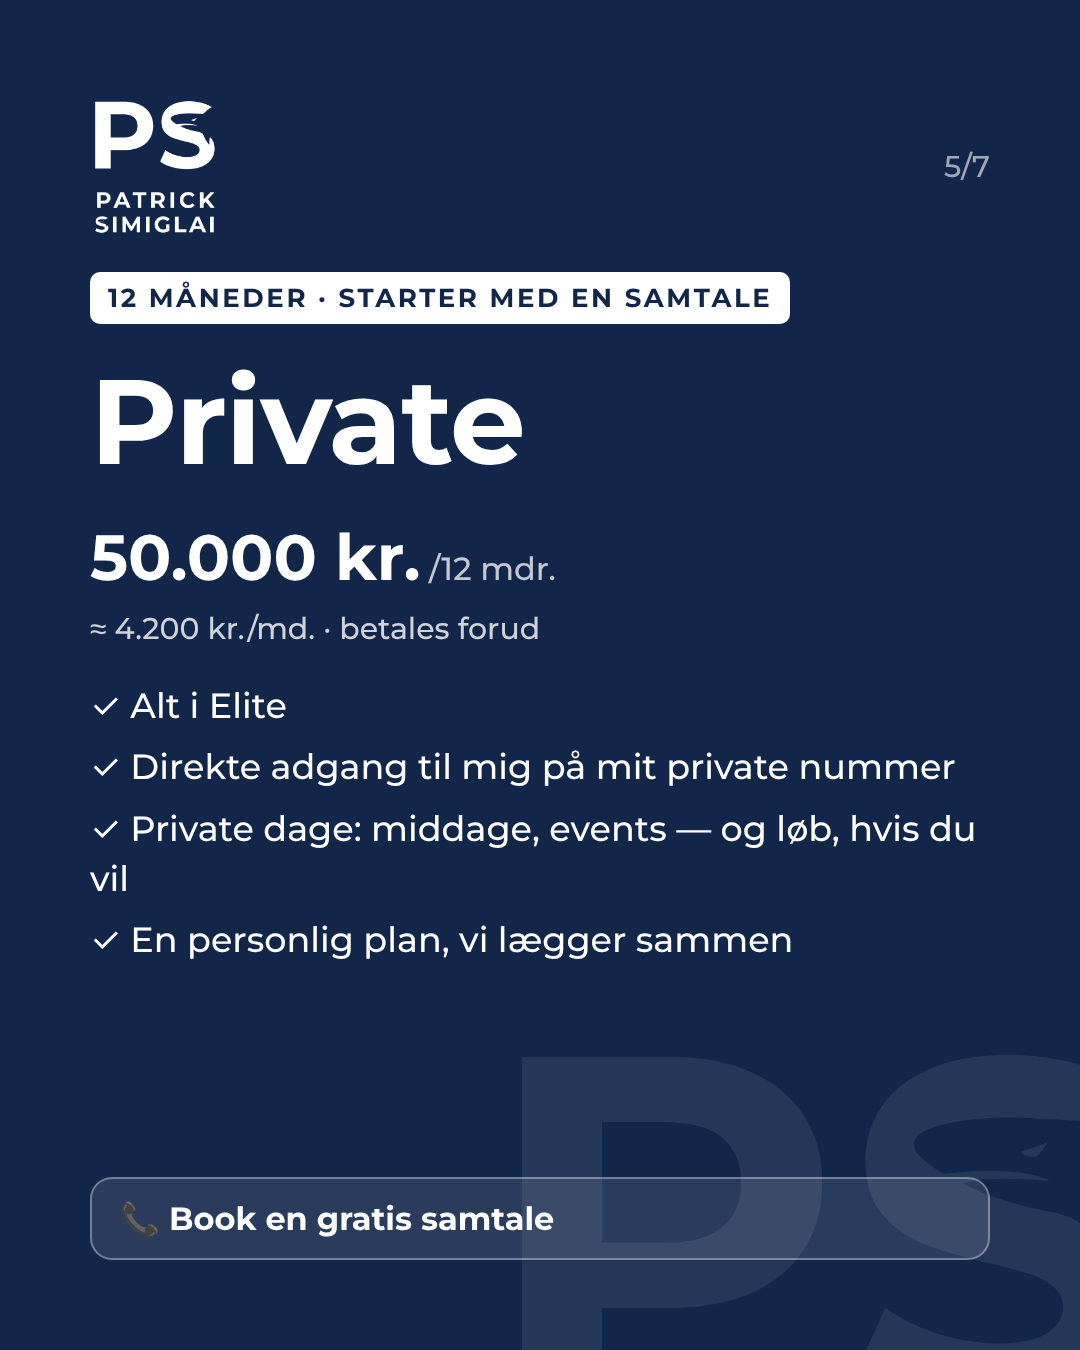
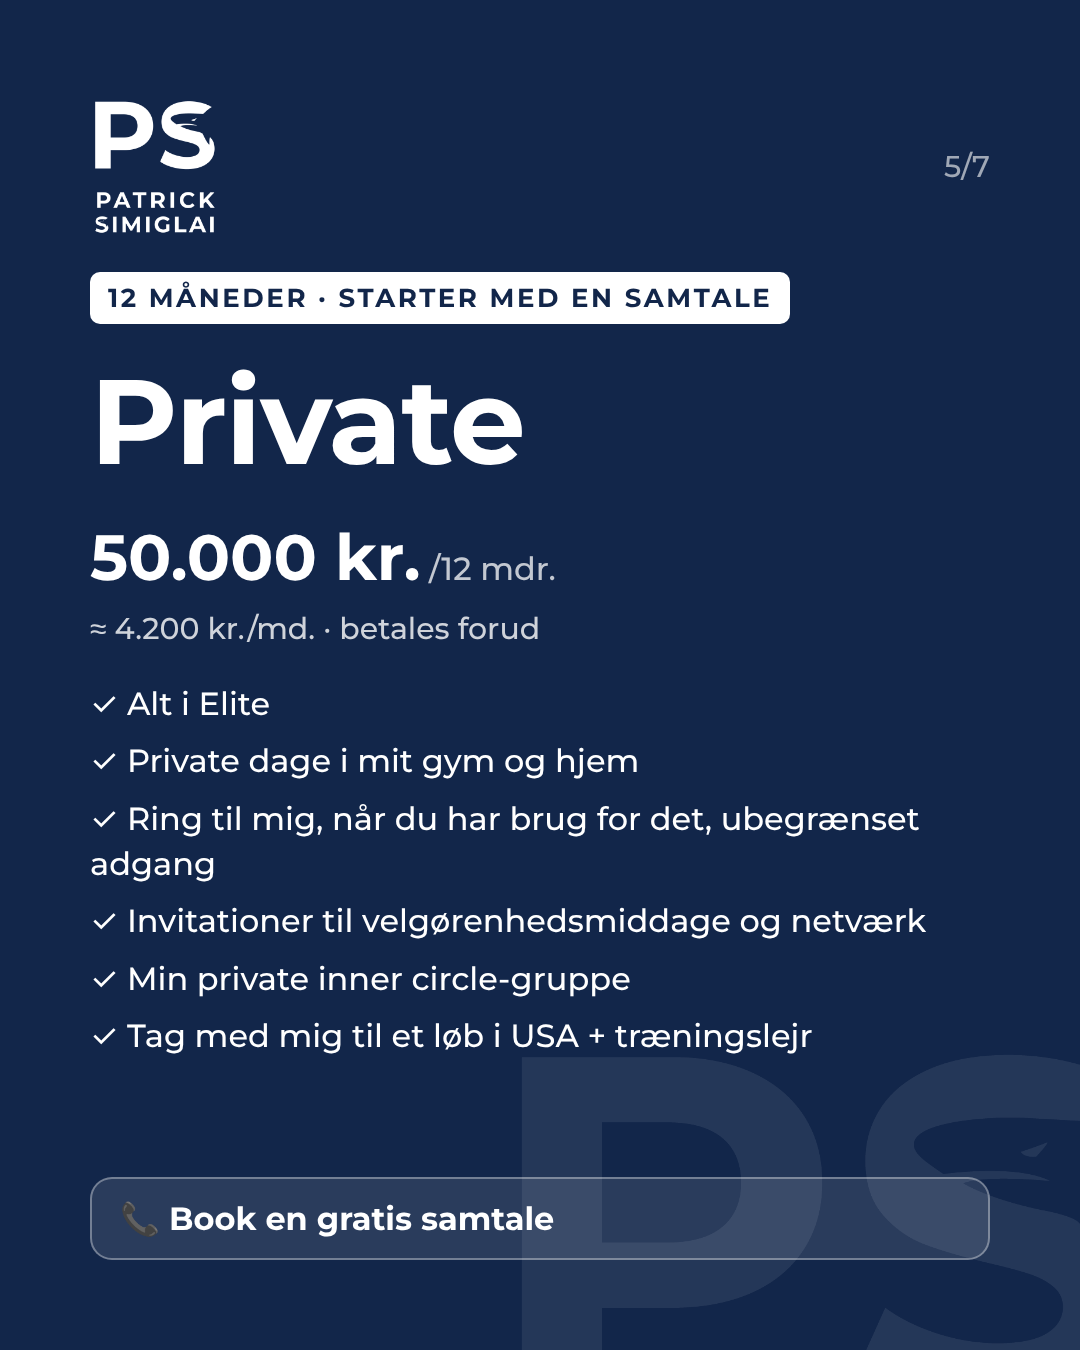
New plan contents, side-by-side plan overview, events for all members
- Accountable/Perform/Elite/Private bullets per Patrick's new offer
- Comparison table supports text cells (Tilkøb, Inkl., 30 min/md., ...)
- Events visible to every paying plan: included for Elite/Private, buy-in for the others
- Launch slide 6 and carousel slide 6 as four columns; slide 7 comma; captions updated

Claude-Session: https://claude.ai/code/session_01MtznJiQsn6TfRTKYdcmM83

Changed region(s): [[0.0917, 0.4978, 0.9167, 0.7778], [0.7333, 0.6533, 0.8556, 0.7156]]

diff --git a/src/lib/plans.ts b/src/lib/plans.ts
@@ -1,6 +1,8 @@
 export type Tier = 'accountable' | 'perform' | 'elite' | 'private';
 
-export type Feature = 'checkin' | 'coach' | 'weekly' | 'goals' | 'library' | 'training' | 'trainingpeaks' | 'worksheets' | 'events' | 'privateline' | 'privatedays' | 'personalplan';
+export type Feature =
+  | 'checkin' | 'coach' | 'weekly' | 'goals' | 'library' | 'events' | 'training' | 'trainingpeaks' | 'worksheets'
+  | 'eventsincluded' | 'samedaycall' | 'race' | 'privatedays' | 'unlimited' | 'network' | 'innercircle' | 'usrace';
 
 import { formatPrice, type Currency } from '../config';
 import { t } from '../i18n';
@@ -26,14 +28,13 @@ export const PLANS: Plan[] = [
     price: { USD: 50, DKK: 349 },
     billing: 'month',
     tagline: 'Show up every day — with someone watching.',
-    features: ['checkin', 'coach', 'weekly', 'goals', 'library'],
+    features: ['checkin', 'coach', 'weekly', 'goals', 'library', 'events'],
     bullets: [
-      'Workout of the day + video library with Patrick: strength, mobility & recovery',
-      'Daily check-in & planner (purpose, top 3, food, socials)',
-      'Daily challenge questions',
-      'Identity & “who I’m becoming” work',
-      'Accountability chat with your coach',
-      'Weekly review & goals',
+      'Daily accountability: check-in & planner',
+      'Challenging questions every day',
+      'Weekly workouts with Patrick on video',
+      'Q&A chat with Patrick',
+      'Buy-in to events',
     ],
   },
   {
@@ -41,9 +42,15 @@ export const PLANS: Plan[] = [
     name: 'Perform',
     price: { USD: 300, DKK: 1999 },
     billing: 'month',
-    tagline: 'The app + personal training programs.',
-    features: ['checkin', 'coach', 'weekly', 'goals', 'library', 'training', 'trainingpeaks'],
-    bullets: ['Everything in Accountable', 'Personal training program in TrainingPeaks, built for you', 'Training tracking & progress'],
+    tagline: 'Your personal training program — and close follow-up.',
+    features: ['checkin', 'coach', 'weekly', 'goals', 'library', 'events', 'training', 'trainingpeaks'],
+    bullets: [
+      'Everything in Accountable',
+      'Personal training program in TrainingPeaks',
+      'Follow-up several times a week',
+      '30 min 1:1 with Patrick every month',
+      'Buy-in to events',
+    ],
   },
   {
     id: 'elite',
@@ -51,8 +58,15 @@ export const PLANS: Plan[] = [
     price: { USD: 500, DKK: 3499 },
     billing: 'month',
     tagline: 'Body, mind and community — the full system.',
-    features: ['checkin', 'coach', 'weekly', 'goals', 'library', 'training', 'trainingpeaks', 'worksheets', 'events'],
-    bullets: ['Everything in Perform', 'Mental worksheets & mindset work', 'Access to events'],
+    features: ['checkin', 'coach', 'weekly', 'goals', 'library', 'events', 'training', 'trainingpeaks', 'worksheets', 'eventsincluded', 'samedaycall', 'race'],
+    bullets: [
+      'Everything in Perform',
+      '1-hour 1:1 session with Patrick',
+      'Mental exercises & mindset work',
+      'Events included',
+      'Same-day call with Patrick when needed',
+      'Option to join a race',
+    ],
   },
   {
     id: 'private',
@@ -61,12 +75,14 @@ export const PLANS: Plan[] = [
     billing: '12months',
     monthlyEquivalent: 4200,
     tagline: '12 months one-to-one with Patrick.',
-    features: ['checkin', 'coach', 'weekly', 'goals', 'library', 'training', 'trainingpeaks', 'worksheets', 'events', 'privateline', 'privatedays', 'personalplan'],
+    features: ['checkin', 'coach', 'weekly', 'goals', 'library', 'events', 'training', 'trainingpeaks', 'worksheets', 'eventsincluded', 'samedaycall', 'race', 'privatedays', 'unlimited', 'network', 'innercircle', 'usrace'],
     bullets: [
       'Everything in Elite',
-      'Direct access to Patrick on his private phone number',
-      'Private days with Patrick — dinners, events, and join his races if you want',
-      'A personal plan we build together',
+      'Private days in Patrick’s gym and home',
+      'Call Patrick whenever you need — unlimited access',
+      'Invites to charity dinners and networks',
+      'Patrick’s private inner circle group',
+      'Join Patrick on a race in the US + training camp',
     ],
   },
 ];
@@ -88,17 +104,22 @@ export const hasFeature = (tier: Tier | null, f: Feature) => (tier ? planById(ti
 /** Cheapest plan that unlocks a feature. */
 export const planFor = (f: Feature) => PLANS.find((p) => p.features.includes(f)) ?? PLANS[PLANS.length - 1];
 
-/** Rows of the plan comparison table: which features each plan includes. */
-export const COMPARISON: { label: string; feature: Feature }[] = [
-  { label: 'Daily check-in & planner', feature: 'checkin' },
-  { label: 'Daily challenge questions', feature: 'checkin' },
-  { label: 'Workout of the day + video library', feature: 'library' },
-  { label: 'Accountability chat with Patrick', feature: 'coach' },
-  { label: 'Weekly review & goals', feature: 'weekly' },
-  { label: 'Personal training program (TrainingPeaks)', feature: 'training' },
-  { label: 'Mental worksheets & mindset work', feature: 'worksheets' },
-  { label: 'Events & community', feature: 'events' },
-  { label: 'Patrick’s private phone number', feature: 'privateline' },
-  { label: 'Private days: dinners, events, races', feature: 'privatedays' },
-  { label: 'Personal plan built together', feature: 'personalplan' },
+/** Rows of the side-by-side plan comparison. A value is ✓ (true), — (false) or a short text. */
+export type Cell = boolean | string;
+export const COMPARISON: { label: string; cells: Record<Tier, Cell> }[] = [
+  { label: 'Daily accountability (check-in)', cells: { accountable: true, perform: true, elite: true, private: true } },
+  { label: 'Challenging questions', cells: { accountable: true, perform: true, elite: true, private: true } },
+  { label: 'Weekly workouts on video', cells: { accountable: true, perform: true, elite: true, private: true } },
+  { label: 'Q&A chat with Patrick', cells: { accountable: true, perform: true, elite: true, private: true } },
+  { label: 'Events', cells: { accountable: 'Buy-in', perform: 'Buy-in', elite: 'Incl.', private: 'Incl.' } },
+  { label: 'Training program in TrainingPeaks', cells: { accountable: false, perform: true, elite: true, private: true } },
+  { label: 'Follow-up several times a week', cells: { accountable: false, perform: true, elite: true, private: true } },
+  { label: '1:1 with Patrick', cells: { accountable: false, perform: '30 min /mo', elite: '1 hour', private: 'Always' } },
+  { label: 'Mental exercises', cells: { accountable: false, perform: false, elite: true, private: true } },
+  { label: 'Same-day call when needed', cells: { accountable: false, perform: false, elite: true, private: true } },
+  { label: 'Join a race', cells: { accountable: false, perform: false, elite: 'Option', private: 'US + camp' } },
+  { label: 'Private days in gym & home', cells: { accountable: false, perform: false, elite: false, private: true } },
+  { label: 'Charity dinners & network', cells: { accountable: false, perform: false, elite: false, private: true } },
+  { label: 'Private inner circle group', cells: { accountable: false, perform: false, elite: false, private: true } },
+  { label: 'Starts with a free call', cells: { accountable: false, perform: true, elite: true, private: true } },
 ];

diff --git a/src/i18n.da.ts b/src/i18n.da.ts
@@ -584,6 +584,7 @@ export const DA: Record<string, string> = {
   'Private days: dinners, events, races': 'Private dage: middage, events, løb',
   'Personal plan built together': 'Personlig plan, lagt sammen',
   'Starts with a free call': 'Starter med en gratis samtale',
+  'Incl.': 'Inkl.',
   Included: 'Inkluderet',
   'Not included': 'Ikke inkluderet',
   'Approve Perform / Elite / Private': 'Godkend Perform / Elite / Private',
@@ -595,4 +596,44 @@ export const DA: Record<string, string> = {
   'Can’t find it? Check your spam folder.': 'Kan du ikke finde den? Tjek din spam-mappe.',
   'I’ve confirmed — log in': 'Jeg har bekræftet, log ind',
   'Please confirm your email first — check your inbox.': 'Bekræft din e-mail først. Tjek din indbakke.',
+  // ── Plan contents (Nov 2026)
+  'Daily accountability: check-in & planner': 'Daglig accountability: check-in og planlægning',
+  'Challenging questions every day': 'Udfordrende spørgsmål hver dag',
+  'Weekly workouts with Patrick on video': 'Ugentlige workouts med Patrick på video',
+  'Q&A chat with Patrick': 'Q&A-chat med Patrick',
+  'Buy-in to events': 'Mulighed for tilkøb af events',
+  'Your personal training program — and close follow-up.': 'Dit personlige træningsprogram, og tæt opfølgning.',
+  'Personal training program in TrainingPeaks': 'Personligt træningsprogram i TrainingPeaks',
+  'Follow-up several times a week': 'Opfølgning flere gange om ugen',
+  '30 min 1:1 with Patrick every month': '30 min. 1:1 med Patrick hver måned',
+  '1-hour 1:1 session with Patrick': '1 times 1:1-session med Patrick',
+  'Mental exercises & mindset work': 'Mentale øvelser og mindset-arbejde',
+  'Events included': 'Events inkluderet',
+  'Same-day call with Patrick when needed': 'Opkald med Patrick samme dag, når du har brug for det',
+  'Option to join a race': 'Mulighed for at deltage i et løb',
+  'Private days in Patrick’s gym and home': 'Private dage i Patricks gym og hjem',
+  'Call Patrick whenever you need — unlimited access': 'Ring til Patrick, når du har brug for det, ubegrænset adgang',
+  'Invites to charity dinners and networks': 'Invitationer til velgørenhedsmiddage og netværk',
+  'Patrick’s private inner circle group': 'Patricks private inner circle-gruppe',
+  'Join Patrick on a race in the US + training camp': 'Tag med Patrick til et løb i USA + træningslejr',
+  'Daily accountability (check-in)': 'Daglig accountability (check-in)',
+  'Challenging questions': 'Udfordrende spørgsmål',
+  'Weekly workouts on video': 'Ugentlige workouts på video',
+  'Buy-in': 'Tilkøb',
+  'Training program in TrainingPeaks': 'Træningsprogram i TrainingPeaks',
+  '1:1 with Patrick': '1:1 med Patrick',
+  '30 min /mo': '30 min /md.',
+  '1 hour': '1 time',
+  Always: 'Altid',
+  'Mental exercises': 'Mentale øvelser',
+  'Same-day call when needed': 'Opkald samme dag ved behov',
+  'Join a race': 'Deltag i et løb',
+  Option: 'Mulig',
+  'US + camp': 'USA + camp',
+  'Private days in gym & home': 'Private dage i gym og hjem',
+  'Charity dinners & network': 'Velgørenhedsmiddage og netværk',
+  'Private inner circle group': 'Privat inner circle-gruppe',
+  'Events are included in your plan.': 'Events er inkluderet i dit medlemskab.',
+  'Events are a buy-in on your plan — the price is shown on each event.': 'Events er tilkøb i dit medlemskab. Prisen står ved hvert event.',
+  'Visible to all members in their Mind tab — included for Elite and Private, buy-in for Accountable and Perform.': 'Synlig for alle medlemmer under Mind. Inkluderet for Elite og Private, tilkøb for Accountable og Perform.',
 };

diff --git a/src/ui.tsx b/src/ui.tsx
@@ -144,19 +144,16 @@ export function ComparisonTable({ currency }: { currency: Currency }) {
           {COMPARISON.map((row) => (
             <tr key={row.label}>
               <th scope="row">{t(row.label)}</th>
-              {PLANS.map((p) => (
-                <td key={p.id} aria-label={p.features.includes(row.feature) ? t('Included') : t('Not included')}>
-                  {p.features.includes(row.feature) ? <span className="compare__yes">✓</span> : <span className="compare__no">—</span>}
-                </td>
-              ))}
+              {PLANS.map((p) => {
+                const c = row.cells[p.id];
+                return (
+                  <td key={p.id} aria-label={c === true ? t('Included') : c === false ? t('Not included') : t(c)}>
+                    {c === true ? <span className="compare__yes">✓</span> : c === false ? <span className="compare__no">—</span> : <span className="compare__txt">{t(c)}</span>}
+                  </td>
+                );
+              })}
             </tr>
           ))}
-          <tr>
-            <th scope="row">{t('Starts with a free call')}</th>
-            {PLANS.map((p) => (
-              <td key={p.id}>{p.id === 'accountable' ? <span className="compare__no">—</span> : <span className="compare__yes">✓</span>}</td>
-            ))}
-          </tr>
         </tbody>
       </table>
     </div>

diff --git a/src/screens/Mind.tsx b/src/screens/Mind.tsx
@@ -48,7 +48,7 @@ export default function Mind({ onUpgrade }: { onUpgrade: () => void }) {
         </Locked>
       )}
 
-      {hasFeature(tier, 'events') ? <Events /> : (
+      {hasFeature(tier, 'events') ? <Events included={hasFeature(tier, 'eventsincluded')} /> : (
         <Locked feature="events" title={t("Events")} onUpgrade={onUpgrade}>
           <p>{t('Training camps, workshops and meet-ups with {coach} and the community.', { coach: COACH_NAME })}</p>
         </Locked>
@@ -57,11 +57,12 @@ export default function Mind({ onUpgrade }: { onUpgrade: () => void }) {
   );
 }
 
-function Events() {
+function Events({ included }: { included: boolean }) {
   const { state, toggleRsvp } = useStore();
   const upcoming = state.events.filter((e) => e.date >= new Date().toISOString().slice(0, 10)).sort((a, b) => a.date.localeCompare(b.date));
   return (
     <Card title={t("Events")} hint={t("Train together. Grow together.")}>
+      <p className="muted small">{included ? t('Events are included in your plan.') : t('Events are a buy-in on your plan — the price is shown on each event.')}</p>
       {upcoming.length === 0 && <p className="empty">{t("No upcoming events yet — new events will appear here.")}</p>}
       {upcoming.map((e) => {
         const going = state.rsvps.includes(e.id);

diff --git a/src/styles.css b/src/styles.css
@@ -328,6 +328,7 @@ a.brandbar img { height: 26px; }
 .compare__price { display: block; font-weight: 300; color: var(--muted); font-size: 0.68rem; line-height: 1.2; margin-top: 2px; }
 .compare__yes { color: var(--ok); font-weight: 800; font-size: 1rem; }
 .compare__no { color: var(--line); }
+.compare__txt { display: block; font-size: .6rem; font-weight: 700; line-height: 1.15; color: var(--heading); overflow-wrap: normal; word-break: normal; }
 .plan__equiv { margin-top: -6px; }
 /* comparison: all four plans must fit on a phone without sideways scrolling */
 .compare { overflow-x: visible; padding: 6px 2px; }

diff --git a/src/screens/Coach.tsx b/src/screens/Coach.tsx
@@ -392,7 +392,7 @@ function EventsManager() {
 
   return (
     <>
-      <Card title={t("New event")} hint={t("Visible to Elite and Private members in their Mind tab.")}>
+      <Card title={t("New event")} hint={t("Visible to all members in their Mind tab — included for Elite and Private, buy-in for Accountable and Perform.")}>
         <TextField label={t("Title")} value={draft.title} onChange={(title) => setDraft({ ...draft, title })} placeholder={t("Training camp")} />
         <div className="row">
           <label className="field" style={{ flex: 1 }}>

diff --git a/marketing/captions.md b/marketing/captions.md
@@ -17,8 +17,10 @@ Med **Accountable** får du:
 🌅 Dagligt check-in — formål, top 3 mål, mad, træning og relationer. Planlagt på 5 minutter.
 ❓ 2 spørgsmål hver dag, der udfordrer dig og får dig til at se dig selv i øjnene.
 🪞 Arbejde med din identitet — hvem er du, og hvem er du ved at blive?
-🏋 Dagens workout med mig på video — styrke, mobilitet og restitution.
+🏋 Ugentlige workouts med mig på video: styrke, mobilitet og restitution.
 🤝 Mig som din accountability-coach. Jeg ser dine check-ins og følger op.
+💬 Q&A-chat med mig.
+🎟 Mulighed for tilkøb af events.
 📅 Ugentlig evaluering hver søndag — se tilbage, lær, og sæt fokus for næste uge.
 
 349 kr./md. — opsig når som helst.
@@ -40,8 +42,10 @@ With **Accountable** you get:
 🌅 A daily check-in — purpose, top 3 goals, food, training and socials. Planned in 5 minutes.
 ❓ 2 questions a day that challenge you to be honest with yourself.
 🪞 Identity work — who are you, and who are you becoming?
-🏋 Workout of the day with me on video — strength, mobility and recovery.
+🏋 Weekly workouts with me on video: strength, mobility and recovery.
 🤝 Me as your accountability coach. I see your check-ins and I follow up.
+💬 Q&A chat with me.
+🎟 Buy-in access to events.
 📅 A weekly review every Sunday — look back, learn, set next week’s focus.
 
 $50/month — cancel any time.
@@ -54,23 +58,25 @@ $50/month — cancel any time.
 
 ---
 
-## 2. All three plans (carousel: `carousel-1.png` … `carousel-5.png`)
+## 2. All four plans (carousel: `carousel-1.png` … `carousel-7.png`)
 
 ### Dansk
 
-3 måder at blive bedre på — hver dag. Swipe 👉
+4 måder at blive bedre på, hver dag. Swipe 👉
 
-🟦 **Accountable** — 349 kr./md.
-Din daglige coach i lommen: check-in, udfordrende spørgsmål, dagens workout med mig og en coach, der følger op.
+🟦 **Accountable**, 349 kr./md.
+Daglig accountability, udfordrende spørgsmål, ugentlige workouts med mig, Q&A-chat med mig og mulighed for tilkøb af events.
 
-🟦 **Perform** — 1.999 kr./md.
-Alt i Accountable + et personligt træningsprogram i TrainingPeaks, bygget til dine mål.
+🟦 **Perform**, 1.999 kr./md.
+Alt i Accountable + personligt træningsprogram i TrainingPeaks, opfølgning flere gange om ugen og 30 min. 1:1 med mig hver måned. Mulighed for tilkøb af events.
 
-🟦 **Elite** — 3.499 kr./md.
-Alt i Perform + mentale øvelser, mindset-arbejde og adgang til events. Krop, sind og fællesskab.
+🟦 **Elite**, 3.499 kr./md.
+Alt i Perform + 1 times 1:1-session, mentale øvelser og events inkluderet. Opkald med mig samme dag, når du har brug for det, og mulighed for at deltage i et løb.
 
-Perform og Elite starter med en gratis samtale, så vi sikrer, at det er det rigtige match.
-Privat personlig rådgivning? Book en gratis afklaringssamtale.
+🟦 **Private**, 50.000 kr. for 12 måneder (≈ 4.200 kr./md.)
+Alt i Elite + private dage i mit gym og hjem. Ring til mig, når du har brug for det, ubegrænset adgang. Invitationer til velgørenhedsmiddage og netværk, min private inner circle-gruppe, og tag med mig til et løb i USA + træningslejr.
+
+Perform, Elite og Private starter med en gratis samtale, så vi sikrer, at det er det rigtige match.
 
 🎁 Skriv dig på ventelisten, og få din første uge gratis, når appen åbner.
 👉 Link i bio
@@ -79,19 +85,21 @@ Privat personlig rådgivning? Book en gratis afklaringssamtale.
 
 ### English
 
-3 ways to get better — every day. Swipe 👉
+4 ways to get better, every day. Swipe 👉
 
-🟦 **Accountable** — $50/month
-Your daily coach in your pocket: check-ins, challenging questions, workout of the day with me and a coach who follows up.
+🟦 **Accountable**, $50/month
+Daily accountability, challenging questions, weekly workouts with me, Q&A chat with me and buy-in access to events.
 
-🟦 **Perform** — $300/month
-Everything in Accountable + a personal training program in TrainingPeaks, built for your goals.
+🟦 **Perform**, $300/month
+Everything in Accountable + a personal training program in TrainingPeaks, follow-up several times a week and 30 min 1:1 with me every month. Buy-in access to events.
 
-🟦 **Elite** — $500/month
-Everything in Perform + mental worksheets, mindset work and access to events. Body, mind and community.
+🟦 **Elite**, $500/month
+Everything in Perform + a 1-hour 1:1 session, mental exercises and events included. A same-day call with me when you need it, and the option to join a race.
 
-Perform and Elite start with a free call to make sure it’s the right fit.
-Private Personal Advisory? Book a free clarification call.
+🟦 **Private**, 50,000 DKK for 12 months (≈ 4,200 DKK/month)
+Everything in Elite + private days in my gym and home. Call me whenever you need, unlimited access. Invites to charity dinners and networks, my private inner circle group, and join me on a race in the US + training camp.
+
+Perform, Elite and Private start with a free call to make sure it’s the right fit.
 
 🎁 Join the waitlist and get your first week free when the app launches.
 👉 Link in bio

diff --git a/marketing/launch-content.md b/marketing/launch-content.md
@@ -34,7 +34,8 @@ Derfor har jeg bygget min egen coaching-app. Den giver dig et system, der får d
 📲 Hver dag i Team Simiglai:
 🌅 5 minutter om morgenen: formål, top 3 mål, mad, træning og én disciplin-udfordring
 ❓ 2 spørgsmål, der udfordrer dig
-🏋 Dagens workout med mig på video
+🏋 Ugentlige workouts med mig på video
+💬 Q&A-chat med mig
 🌙 Aftenevaluering: sejre, læring og en karakter til dagen
 📅 Hver søndag: ugens evaluering
 
@@ -61,7 +62,8 @@ So I built my own coaching app. It gives you a system that makes you show up eve
 📲 Every day in Team Simiglai:
 🌅 5 minutes in the morning: purpose, top 3 goals, food, training and one discipline challenge
 ❓ 2 questions that challenge you
-🏋 Workout of the day with me on video
+🏋 Weekly workouts with me on video
+💬 Q&A chat with me
 🌙 Evening review: wins, lessons and a score for the day
 📅 Every Sunday: your weekly review
 
@@ -130,7 +132,7 @@ Tak, fordi du skrev dig på ventelisten. Nu er Team Simiglai åben — og du er 
 **Det får du hver dag:**
 – 5 minutters morgenplan: formål, top 3, mad, træning og én disciplin-udfordring
 – 2 spørgsmål, der udfordrer dig
-– Dagens workout med mig på video
+– Ugentlige workouts med mig på video
 – Aftenevaluering — og jeg ser dine check-ins og følger op
 
 Perform, Elite og Private starter med en gratis samtale med mig, så vi sikrer, at det er det rigtige match.
@@ -158,7 +160,7 @@ Thank you for joining the waitlist. Team Simiglai is now open — and you’re o
 **What you get every day:**
 – A 5-minute morning plan: purpose, top 3, food, training and one discipline challenge
 – 2 questions that challenge you
-– Workout of the day with me on video
+– Weekly workouts with me on video
 – An evening review — and I see your check-ins and follow up
 
 Perform, Elite and Private start with a free call with me to make sure it’s the right fit.
